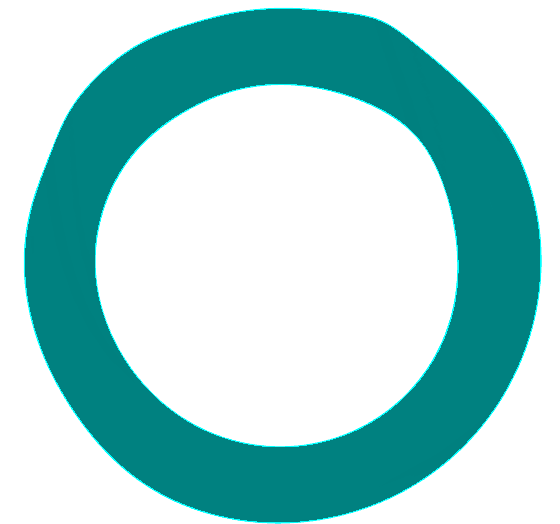
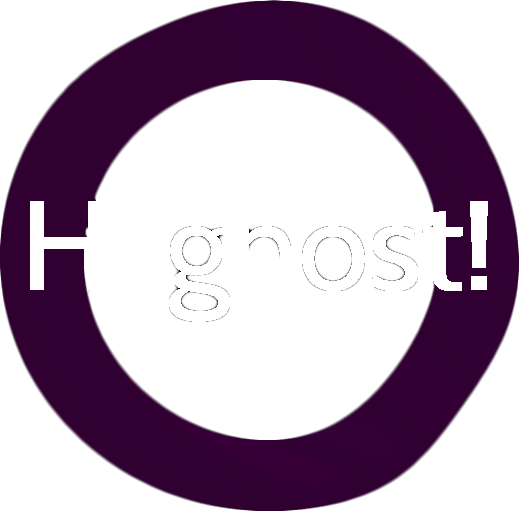
feat: update hero visuals

diff --git a/src/sections/Hero/index.tsx b/src/sections/Hero/index.tsx
@@ -4,46 +4,40 @@ import Image from 'next/image'
 import { usePalette, palette } from '@/styles/theme'
 import { a, useSpringValue } from 'react-spring'
 import * as Styled from './styled'
-import Text from '@/components/Text'
-// TODO: uncomment when Three is functional
-// import Three from '@/three'
-// import Thing from '@/three/components/Thing'
-// import ThingTitle from '@/three/components/ThingTitle'
-// import MouseOrbiter from '@/three/components/MouseOrbiter'
-// import CameraFog from '@/three/components/CameraFog'
+import Three from '@/three'
+import Thing from '@/three/components/Thing'
+import ThingTitle from '@/three/components/ThingTitle'
+import MouseOrbiter from '@/three/components/MouseOrbiter'
 
 const AImage = a(Image)
 
 export default function Hero({ ...restProps }) {
-  const color = usePalette(palette.accent[1])
+  const ambientColor = usePalette(palette.main.fg)
+  const color = usePalette(palette.main.bg)
   const loading = useSpringValue(1)
 
   return (
     <Styled.Hero {...restProps}>
-      <Text.MainHeading>Hi Ghost!</Text.MainHeading>
-      {/* TODO: uncomment when Three is functional */}
-      {/* <Three keepScrollPerspective>
-        <ambientLight color="#fff" />
+      <Three keepScrollPerspective>
+        <ambientLight color={ambientColor} />
         <MouseOrbiter>
-          <Thing
-            position-z={-100}
-            color={color}
-            onFirstRender={() => loading.start(0)}
-          />
-          <ThingTitle scale={[128, 128, 32]}>Hi Ghost!</ThingTitle>
+          <Thing color={color} onFirstRender={() => loading.start(0)} />
+          <ThingTitle position-z={100} scale={[80, 80, 8]}>
+            Hi ghost!
+          </ThingTitle>
         </MouseOrbiter>
-        <CameraFog near={0} far={64} />
-      </Three> */}
+      </Three>
+
       <AImage
         style={{
           opacity: loading,
           // @ts-ignore
           display: loading.to((p) => (p <= 0 ? 'none' : undefined)),
         }}
-        src="/thing-loading-tinified.png"
+        src="/thing-loading.png"
         alt="Ever changing graphical element"
-        width={560}
-        height={524}
+        width={519}
+        height={511}
       />
     </Styled.Hero>
   )

diff --git a/src/three/components/Thing/index.tsx b/src/three/components/Thing/index.tsx
@@ -29,19 +29,6 @@ export default function Thing({
   const radius = Math.min(size.width, size.height) * 0.5
   const scale = clamp(minRadius, maxRadius, radius - padding)
 
-  // let printAsImage = true
-  // useFrame((s) => {
-  //   if (printAsImage) {
-  //     setTimeout(() => {
-  //       console.log(s.gl)
-  //       printAsImage = false
-  //       const img = document.createElement('img')
-  //       img.src = s.gl.domElement.toDataURL()
-  //       document.body.prepend(img)
-  //     }, 100)
-  //   }
-  // })
-
   const firstRender = useRef(true)
   useFrame(() => {
     if (firstRender.current) {
@@ -55,9 +42,9 @@ export default function Thing({
   return (
     <group {...restProps} scale={[scale, scale, 100]} ref={ref}>
       <mesh>
-        <ringGeometry args={[0.7, 1, 360, 10]} />
+        <ringGeometry args={[0.7, 1, 360, 16]} />
         <ThingMaterial
-          color={chroma(color).alpha(0.5).hex()}
+          color={chroma(color).alpha(0.1).hex()}
           ambientColor={ambientColor}
           r0={0.7}
           r1={1}

diff --git a/src/three/index.tsx b/src/three/index.tsx
@@ -15,6 +15,10 @@ import { useInView } from 'react-intersection-observer'
 import useMeasure from 'react-use-measure'
 import Camera from './components/Camera'
 
+// Uncomment to print loading images (part 1/2)
+// import { WebGLRenderer } from 'three'
+// import { printImage } from './lib'
+
 type TThreeProps = {
   name?: string
   keepScrollPerspective?: boolean
@@ -71,7 +75,16 @@ function Three(
       ref={mergeRefs([ref, forwardedRef, measureRef])}
       {...restProps}
     >
-      <Canvas frameloop={inView ? 'always' : 'never'} linear flat>
+      <Canvas
+        frameloop={inView ? 'always' : 'never'}
+        linear
+        flat
+        // Uncomment to print loading images (part 2/2)
+        // gl={(canvas) => {
+        //   printImage()
+        //   return new WebGLRenderer({ canvas, preserveDrawingBuffer: true })
+        // }}
+      >
         <Camera
           // TODO: constate instead of prop-drilling
           bounds={scrollCompensatedBounds}

diff --git a/src/styles/fonts.ts b/src/styles/fonts.ts
@@ -1,9 +1,22 @@
-import { Blinker, Barlow } from 'next/font/google'
+import { Cabin, Blinker, Barlow } from 'next/font/google'
 
-const fontBlinker = Blinker({ subsets: ['latin'], weight: ['400'] })
-const fontBarlow = Barlow({ subsets: ['latin'], weight: ['400'] })
+// TODO: remove unused fonts and weights
+
+const fontCabin = Cabin({
+  subsets: ['latin'],
+  weight: ['400', '500', '600', '700'],
+})
+const fontBlinker = Blinker({
+  subsets: ['latin'],
+  weight: ['400', '600', '700'],
+})
+const fontBarlow = Barlow({
+  subsets: ['latin'],
+  weight: ['400', '500', '600', '700'],
+})
 
 const FONT = {
+  Cabin: fontCabin.style.fontFamily,
   Blinker: fontBlinker.style.fontFamily,
   Barlow: fontBarlow.style.fontFamily,
 }

diff --git a/src/three/components/ThingTitle/index.tsx b/src/three/components/ThingTitle/index.tsx
@@ -1,18 +1,23 @@
 import { useMemo } from 'react'
 import { FontLoader, TextGeometry } from 'three-stdlib'
 import { usePalette, palette } from '@/styles/theme'
-import BlinkerFont from './BlinkerGhost.json'
+import FontJson from './CabinGhost.json'
 import { Center } from '@react-three/drei'
 
 const fl = new FontLoader()
 const font = fl.parse(
   // @ts-ignore
-  BlinkerFont
+  FontJson
 )
 
 export default function ThingTitle({ children = 'Hi', ...restProps }) {
   const geometry = useMemo(
-    () => new TextGeometry(children, { font, size: 1, height: 1 }),
+    () =>
+      new TextGeometry(children, {
+        font,
+        size: 1,
+        height: 1,
+      }),
     [children]
   )
 

diff --git a/src/sections/Hero/styled.ts b/src/sections/Hero/styled.ts
@@ -1,6 +1,7 @@
-'use client'
+"use client";
 
-import styled from 'styled-components'
+import styled from "styled-components";
+import { palette } from "@/styles/theme";
 
 export const Hero = styled.section`
   position: relative;
@@ -10,6 +11,10 @@ export const Hero = styled.section`
   pointer-events: none;
   height: 100vh;
   min-height: 600px;
+  background: linear-gradient(
+    ${palette.accent[1].darken(5)},
+    ${palette.accent[0].darken(5)}
+  );
 
   > .three {
     position: absolute;
@@ -25,4 +30,4 @@ export const Hero = styled.section`
     left: 50%;
     transform: translate(-50%, -50%);
   }
-`
+`;

diff --git a/src/styles/GlobalStyle.ts b/src/styles/GlobalStyle.ts
@@ -1,6 +1,6 @@
-import { createGlobalStyle } from 'styled-components'
-import FONT from './fonts'
-import { palette } from './theme'
+import { createGlobalStyle } from "styled-components";
+import FONT from "./fonts";
+import { palette } from "./theme";
 
 const GlobalStyle = createGlobalStyle`
   :root {
@@ -18,6 +18,6 @@ const GlobalStyle = createGlobalStyle`
   h1, h2, h3, h4, h5, h6 {
     font-family: ${FONT.Blinker};
   }
-`
+`;
 
-export default GlobalStyle
+export default GlobalStyle;

diff --git a/src/three/lib.ts b/src/three/lib.ts
@@ -1,0 +1,18 @@
+// Helper for getting the loading screen image(s)
+export const printImage = (() => {
+  let printed = false
+  return () => {
+    if (printed) {
+      return
+    }
+    printed = true
+    setTimeout(() => {
+      const canvases = document.body.querySelectorAll('canvas')
+      canvases.forEach((c) => {
+        const img = document.createElement('img')
+        img.src = c.toDataURL()
+        document.body.prepend(img)
+      })
+    }, 1000)
+  }
+})()

diff --git a/src/sections/Hero/Loading.tsx b/src/sections/Hero/Loading.tsx
@@ -5,10 +5,10 @@ export default function LoadingHero({ ...restProps }) {
   return (
     <Styled.Hero {...restProps}>
       <Image
-        src="/thing-loading-tinified.png"
+        src="/thing-loading.png"
         alt="Ever changing graphical element"
-        width={560}
-        height={524}
+        width={519}
+        height={511}
       />
     </Styled.Hero>
   )

diff --git a/src/styles/theme.ts b/src/styles/theme.ts
@@ -7,8 +7,10 @@ import createThemes from 'styled-palette'
 
 const mainPalette = {
   main: {
-    bg: '#010A2D',
+    bg: '#000',
     fg: '#fff',
+    // bg: '#010A2D',
+    // fg: '#fff',
   },
   accent: ['#f0f', '#0ff'],
 }
@@ -21,6 +23,5 @@ const {
   palette, //: palette0,
   usePalette,
 } = createThemes([mainPalette])
-
 
 export { palette, usePalette, mainTheme }
